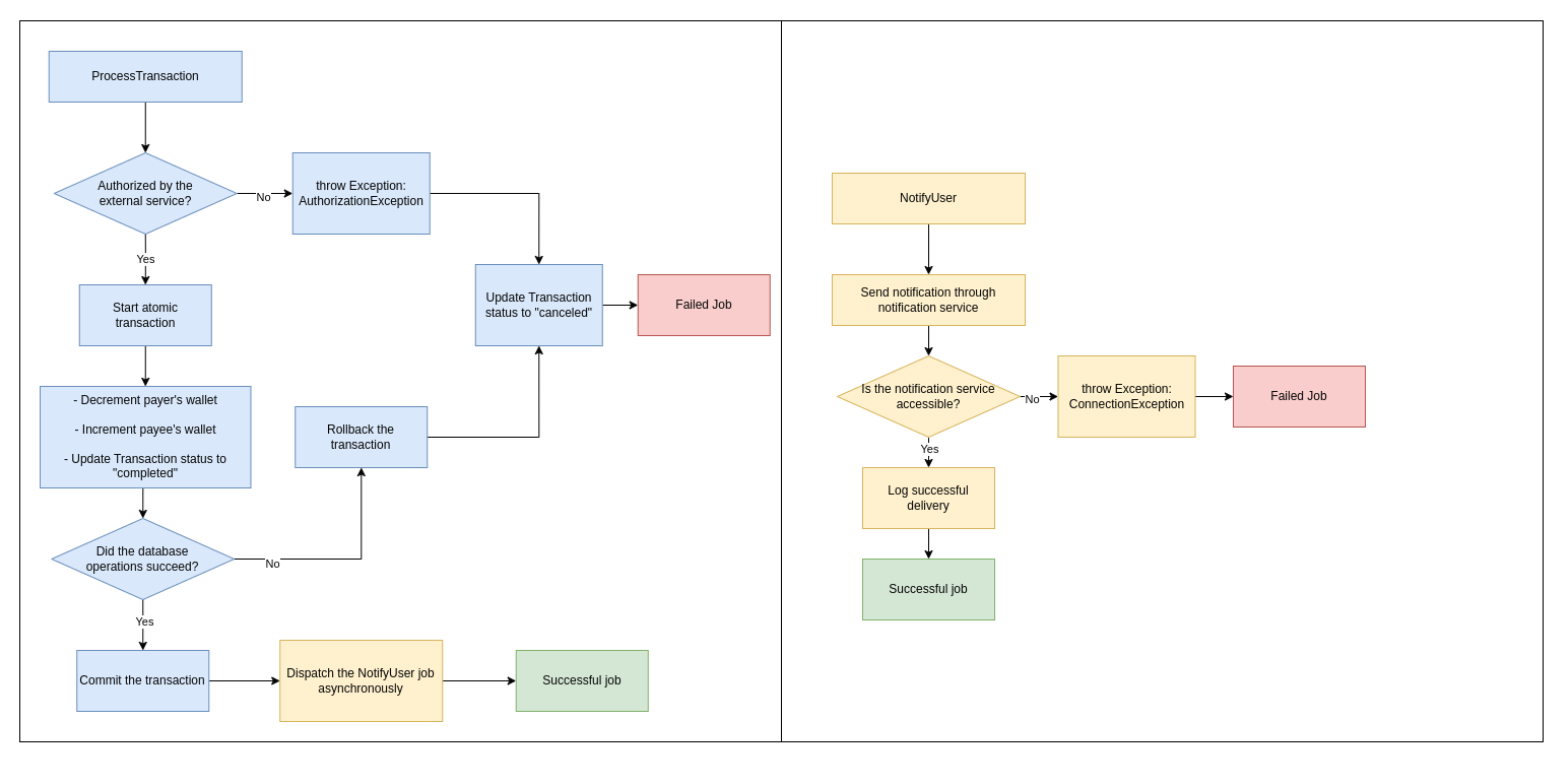
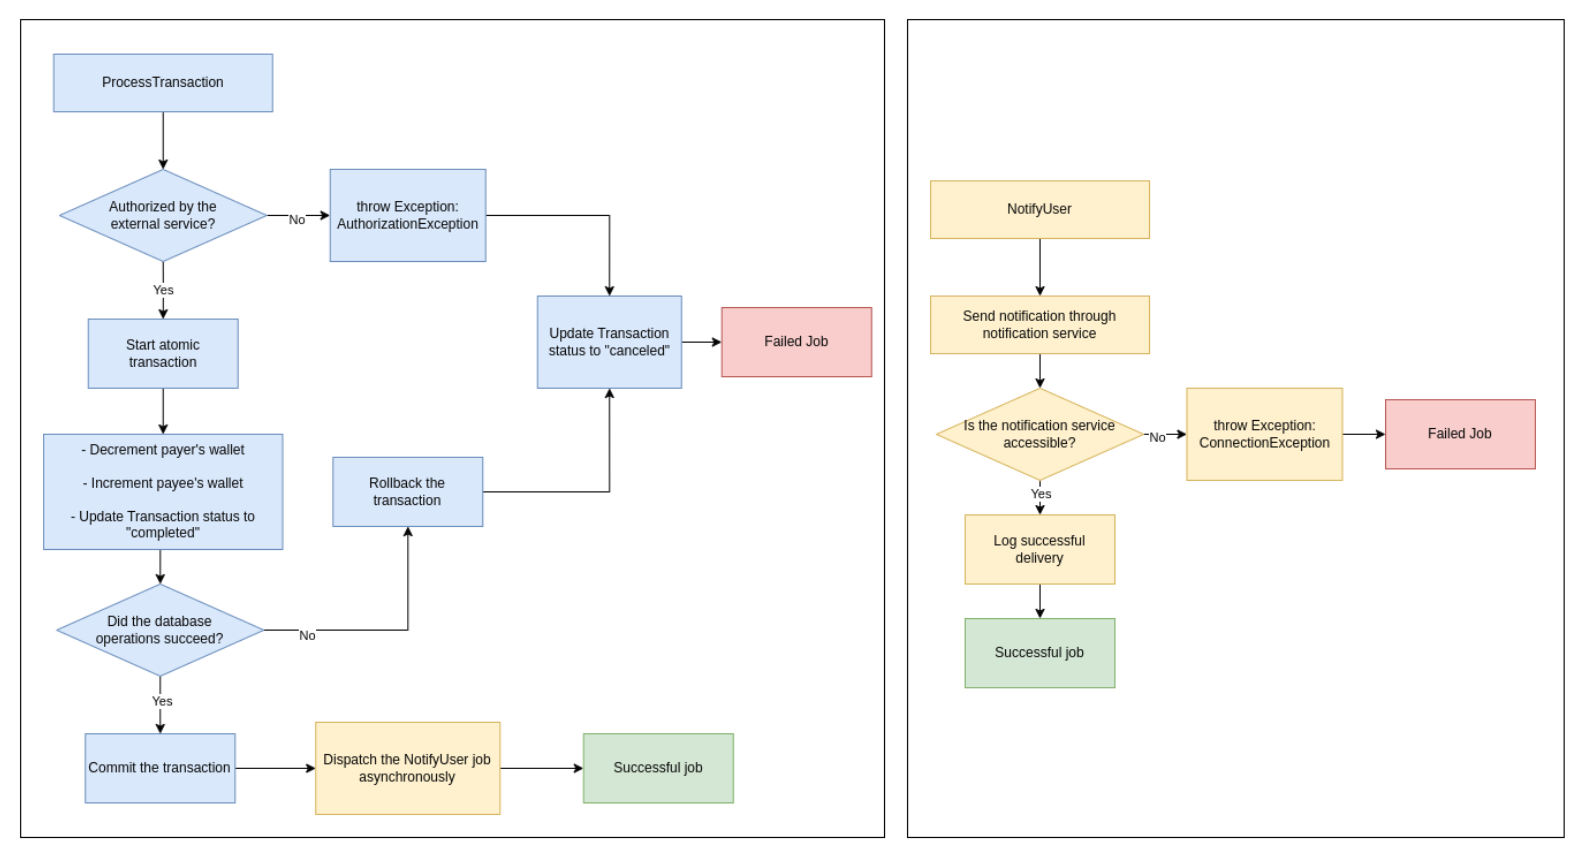
docs: change image size

diff --git a/README.md b/README.md
@@ -53,10 +53,10 @@ For the queue system, Laravel’s database-based queue driver was chosen. This s
 ## :pushpin: Flowcharts
 
 API Flow:
-<p align="center"><img width="60%" src="https://raw.githubusercontent.com/4ngelica/wallet/refs/heads/master/storage/images/API.png"></p>
+<p align="center"><img width="70%" src="https://raw.githubusercontent.com/4ngelica/wallet/refs/heads/master/storage/images/API.png"></p>
 
 ProcessTransaction Job and NotifyUser Job:
-<p align="center"><img width="80%" src="https://raw.githubusercontent.com/4ngelica/wallet/refs/heads/master/storage/images/Jobs.png"></p>
+<p align="center"><img width="100%" src="https://raw.githubusercontent.com/4ngelica/wallet/refs/heads/master/storage/images/Jobs.png"></p>
 
 
 ## :pushpin: Data Modeling
